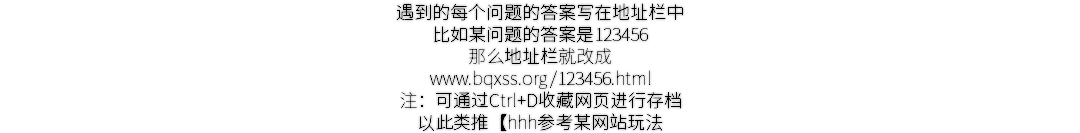
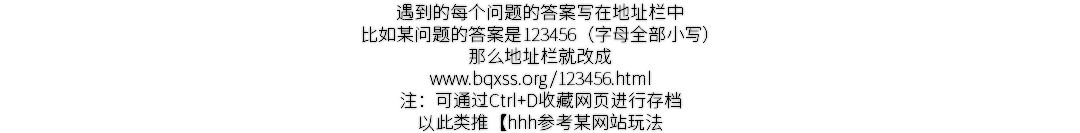
change3

diff --git a/ssjm.html b/ssjm.html
@@ -34,7 +34,7 @@ if(typeof Muse == "undefined") window.Muse = {}; window.Muse.assets = {"required
 <script src="./layui/layui.js"></script>
      </div>
     </div>
-    <img class="grpelem" id="u778-14" alt="遇到的每个问题的答案写在地址栏中 比如某问题的答案是123456 那么地址栏就改成 www.bqxss.org/123456.html 注：可通过Ctrl+D收藏网页进行存档 以此类推【hhh参考某网站玩法" src="images/u778-14.png?crc=4129938614" data-image-width="1080"/><!-- rasterized frame -->
+    <img class="grpelem" id="u778-14" alt="遇到的每个问题的答案写在地址栏中 比如某问题的答案是123456（字母全部小写） 那么地址栏就改成 www.bqxss.org/123456.html 注：可通过Ctrl+D收藏网页进行存档 以此类推【hhh参考某网站玩法" src="images/u778-14.png?crc=320111334" data-image-width="1080"/><!-- rasterized frame -->
    </div>
    <div class="verticalspacer" data-offset-top="519" data-content-above-spacer="519" data-content-below-spacer="62" data-sizePolicy="fixed" data-pintopage="page_fixedLeft"></div>
   </div>
